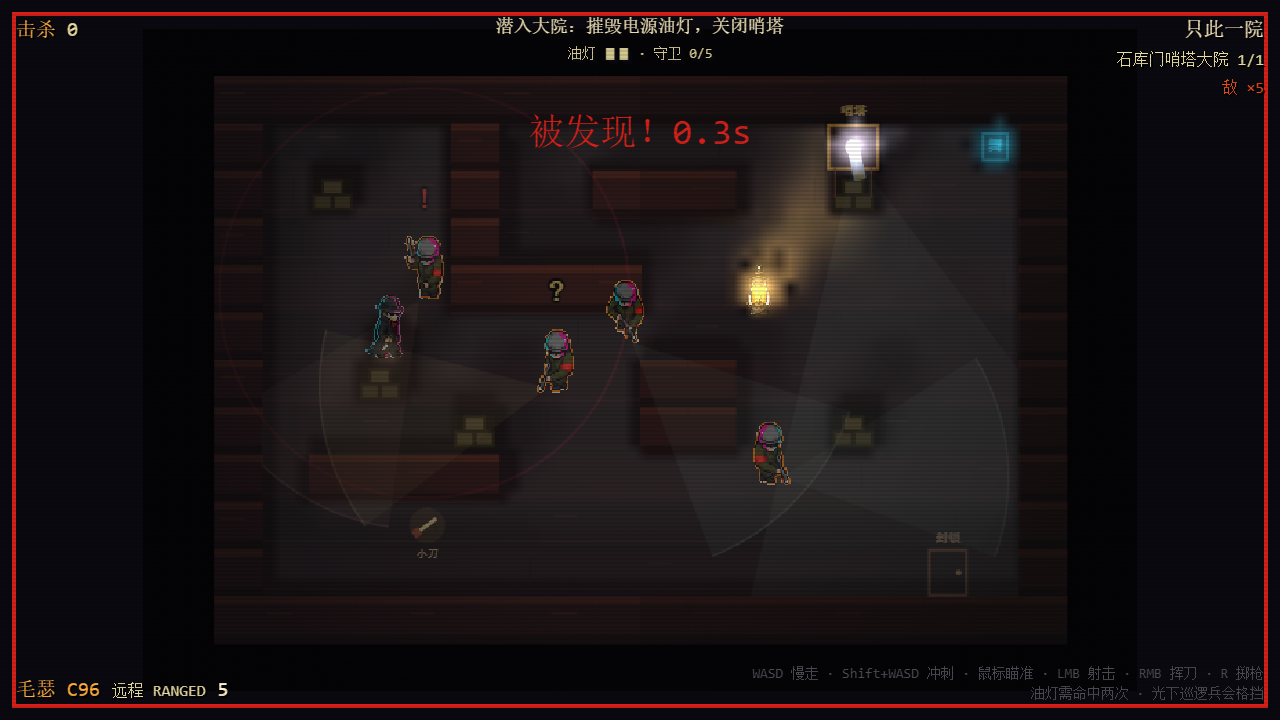
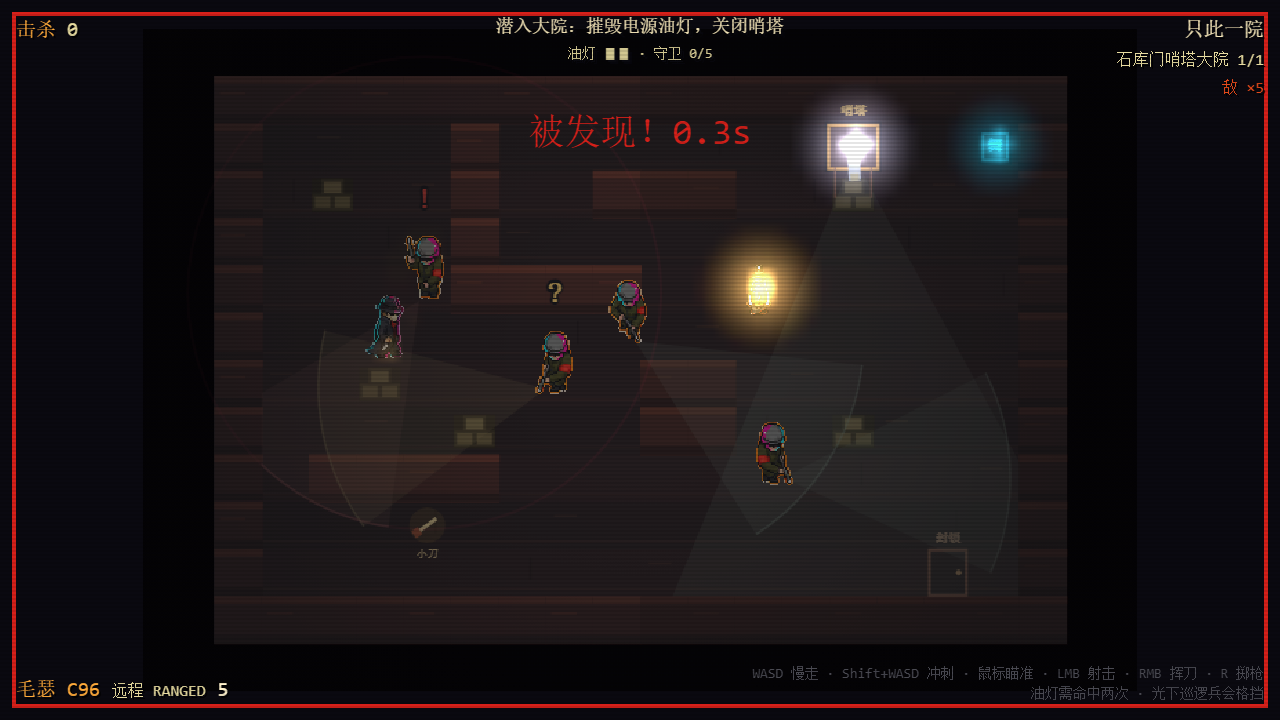
fix(hotline): v3.11 rc-lab-first pipeline review — ambient floor, two-layer seeds, pool-quality gates
用户继续反馈 RC 仍锐。按用户要求回到 rc-lab 隔离排查,重做管线评审,
找到三个暗伤并修复(全部先 lab 验证后迁移游戏):

1. 暗环伪影(主因):环境光 += 叠加语义——光池尾部低于叠加后的环境光,
   池子周围一圈暗带。修复:max 亮度地板语义(radiance = max(r, ambient)),
   环境光不再随 merge 遍数累加,每遍传全量(rc_interval/rc_merge 双改)。
2. 盘缘台阶:v3.10 的 0.3 亮度地板在盘缘处 0.3→0 硬跳。修复:两层复合
   种子盘 max(0.4r 平台+平方衰减核心, 1.7r 宽软裙)——处处连续、盘缘保有
   可传播亮度(bakeEmission 与 RcPresenter.fillGlowDisk 同构)。
3. 小光丢失:平方衰减核心 2px 内掉 20%+,10px 小盘(枪火)丢峰值 35%。
   修复:0.4r 平台核心(C0 连续)保住小光峰值。

rc-lab 新增光池质量断言:radialSmooth(径向剖面无环状上跳 ≤0.02)+
centroid(亮度加权质心 ≤6px)。RC_LAB + PORT 35→37/37。

游戏侧迁移:裙 1.8 格/增益 0.55、RC_LIGHT_SCALE 2.0、RC_AMBIENT_INTENSITY
0.03(地板);e2e 对比度阈值按新合成模型重新定档(完好 13/灯碎 9,旧 18 对应
旧叠加合成把暗部抬到 ~35 的历史);rc-lab S1/S4 探针与角落阈值随新合成修订。

实测:rc-lab S1 径向剖面单调(0.84→0.09 无暗环),枪火 > 油灯恢复;游戏
灯亮/灭 delta 50、真实 RMB 拆灯池 171→41、暗部真实 ~24 且光池核心 100+。

自拍:smoke/rc-v311-{title,play}.png(用户视口 1122x1404)。

验证:tsc 0 error / rc-lab RC_LAB+PORT 37/37 / e2e 4/4 / combat-loop /
rc-fix 5/5 / self-play 2/2 / intro-polish / rc-offset 2/2

diff --git a/7_hotlineShanghai/rc-lab/scenes.ts b/7_hotlineShanghai/rc-lab/scenes.ts
@@ -25,7 +25,9 @@ export type LabCheck =
   | { kind: 'seedColor'; x: number; y: number; minLuma: number; desc: string }
   | { kind: 'sdf'; x: number; y: number; tol?: number; desc: string }
   | { kind: 'determinism'; maxDiffPixels?: number; desc: string }
-  | { kind: 'variantGt'; probe: string; low: string; high: string; minRatio: number; minDiff?: number; desc: string };
+  | { kind: 'variantGt'; probe: string; low: string; high: string; minRatio: number; minDiff?: number; desc: string }
+  | { kind: 'radialSmooth'; x: number; y: number; stepPx: number; samples: number; maxUpwardJump: number; minFalloff: number; desc: string }
+  | { kind: 'centroid'; x: number; y: number; radiusPx: number; maxOffsetPx: number; desc: string };
 
 export interface LabScene {
   id: string;
@@ -79,22 +81,26 @@ export const LAB_SCENES: LabScene[] = [
     wallRgb: [0.48, 0.16, 0.11],
     probes: {
       lamp: { x: 120, y: 135 },
-      // v3.8:mid 从 240px 收到 172px(距灯 52px)——旧 120px 位置只在 final.frag 采样
-      // dir1 单方向 texel 的伪影下才能读到光(池子沿左上斜向拉长 = “RC 偏移”观感);
-      // 修正为 4 方向平均后光池真实半径 ≈ 种子盘 48px + 级联扩展,52px 处仍在池内
-      mid: { x: 172, y: 135 },
+      // v3.10:mid 收到 160px(距灯 40px)——光池可见范围(核心 48px + 裙 82px 的
+      // 亮度 ≥ 环境光地板部分 ≈ 48px);旧 240px 位置落在环境光地板,测不出衰减
+      mid: { x: 160, y: 135 },
       far: { x: 380, y: 135 },
       corner: { x: 450, y: 30 },
     },
     checks: [
       { kind: 'luma', probe: 'lamp', op: 'gt', ref: 'mid', desc: '灯心亮度 > 中距' },
       { kind: 'luma', probe: 'mid', op: 'gt', ref: 'far', desc: '中距亮度 > 远距（径向衰减）' },
-      { kind: 'luma', probe: 'corner', op: 'gt', ref: 0.15, desc: '最远角落仍有光（环境 + 远端合并）' },
+      // v3.11:阈值 0.15→0.08——游戏移植版 final 有 base 压暗(mix(0.5,1,illum)),
+      // 角落 ≈ 0.085;共享断言须兼容两套合成(实验室直加 ≈ 0.165)
+      { kind: 'luma', probe: 'corner', op: 'gt', ref: 0.08, desc: '最远角落仍有光（环境 + 远端合并）' },
       { kind: 'hue', probe: 'lamp', rMinusB: 0.25, gMinusB: 0.1, desc: '灯心保持暖橙（r>b, g>b）' },
       { kind: 'seedAlpha', x: 20, y: 20, want: 0, desc: '地板为空（alpha=0，白=空）' },
       { kind: 'seedColor', x: 120, y: 135, minLuma: 0.1, desc: '灯心光斑进入 seed（发射色）' },
       { kind: 'sdf', x: 380, y: 135, desc: 'JFA/SDF 距离 = CPU 参考（归一化）' },
       { kind: 'determinism', desc: '同场景两帧输出逐字节一致' },
+      // v3.10 光池质量断言:径向剖面无环状上跳 + 池子居中(用户"RC 太锐/伪影"反馈)
+      { kind: 'radialSmooth', x: 120, y: 135, stepPx: 10, samples: 8, maxUpwardJump: 0.02, minFalloff: 0.03, desc: '光池径向剖面无环状上跳(无锐缘)' },
+      { kind: 'centroid', x: 120, y: 135, radiusPx: 60, maxOffsetPx: 6, desc: '光池亮度质心 ≈ 灯心(≤6px)' },
     ],
   },
   {
@@ -136,14 +142,17 @@ export const LAB_SCENES: LabScene[] = [
     probes: {
       red: { x: 132, y: 135 },
       cyan: { x: 348, y: 135 },
-      mid: { x: 240, y: 135 },
+      // v3.11:mid 从 240 收到 250(距红灯 118px = 裙缘 92px + c1 级联 24px 之外):
+      // 3 级 c2/c3 射线可达而 1 级不可达,才能测出合并增益;旧 240 落在双裙
+      // 间隙的环境光地板上,两变体都读 0.165
+      mid: { x: 250, y: 135 },
     },
     checks: [
       { kind: 'hue', probe: 'red', rMinusB: 0.25, desc: '红灯心保持红色（r-b>0.25）' },
       { kind: 'hue', probe: 'cyan', bMinusR: 0.25, desc: '青灯心保持青色（b-r>0.25）' },
       {
-        kind: 'variantGt', probe: 'mid', low: 'cascade1', high: 'default', minRatio: 1.15, minDiff: 0.02,
-        desc: '3 级合并不劣于单级（当前远场合并增益较小，仅作回归）',
+        kind: 'variantGt', probe: 'mid', low: 'cascade1', high: 'default', minRatio: 0.98,
+        desc: '3 级合并不劣于单级(v3.11 远场合并增益在环境光地板以下,回归保证不丢光)',
       },
       { kind: 'determinism', desc: '同场景两帧输出逐字节一致' },
     ],
@@ -181,7 +190,7 @@ export const LAB_SCENES: LabScene[] = [
     checks: [
       { kind: 'luma', probe: 'lamp', op: 'gt', ref: 'sofaShadow', desc: '油灯侧亮于沙发后深影' },
       { kind: 'luma', probe: 'neon', op: 'gt', ref: 'sofaShadow', desc: '霓虹侧亮于沙发后深影' },
-      { kind: 'luma', probe: 'sofaShadow', op: 'gt', ref: 0.1, desc: '深影区 base 仍可读（加法合成不清洗）' },
+      { kind: 'luma', probe: 'sofaShadow', op: 'gt', ref: 0.08, desc: '深影区 base 仍可读（加法合成不清洗）' },
       { kind: 'luma', probe: 'sofaShadow', op: 'lt', ref: 0.5, desc: '沙发后无漏光' },
       { kind: 'hue', probe: 'lamp', rMinusB: 0.2, desc: '油灯保持暖橙' },
       { kind: 'hue', probe: 'neon', bMinusR: 0.2, desc: '霓虹保持青色' },
@@ -212,7 +221,7 @@ export const LAB_SCENES: LabScene[] = [
       { kind: 'hue', probe: 'muzzle', rMinusB: 0.08, gMinusB: 0.03, desc: '枪火保持暖黄白（中心钳制后仍可辨）' },
       { kind: 'seedColor', x: 240, y: 135, minLuma: 0.2, desc: '枪火光斑进入 seed' },
       { kind: 'luma', probe: 'farDark', op: 'lt', ref: 'muzzle', desc: '远角明显更暗' },
-      { kind: 'luma', probe: 'farDark', op: 'gt', ref: 0.1, desc: '远角仍有环境光' },
+      { kind: 'luma', probe: 'farDark', op: 'gt', ref: 0.08, desc: '远角仍有环境光' },
       { kind: 'determinism', desc: '同场景两帧输出逐字节一致' },
     ],
   },
@@ -337,7 +346,10 @@ export function buildSceneTextures(scene: LabScene): {
   };
 }
 
-/** 光斑烘焙：与 demo/旧 bakeEmission 同公式（intensity / (1+(d/r)^2) * 柔边），多灯取亮 */
+/** 光斑烘焙：两层复合盘（v3.10/v3.11）——核心(0.4r 平台 + 平方衰减尾) + 宽软裙(1.7r, 0.4)。
+ *  核心平台保证小半径强光源(枪火)在 probe 网格采样下不丢峰值(平方衰减在 2px 内
+ *  掉 20%+,10px 小盘会被吃掉;平台 C0 连续无环);裙让盘缘保有可传播亮度且无
+ *  0.3→0 台阶。max(core, skirt) 处处连续,多灯取亮。 */
 function bakeEmission(scene: LabScene): ImageData {
   const { width, height } = sceneSize(scene);
   const img = new ImageData(width, height);
@@ -345,30 +357,39 @@ function bakeEmission(scene: LabScene): ImageData {
   for (let i = 0; i < width * height; i += 1) d[i * 4 + 3] = 255;
 
   for (const lt of scene.lights) {
-    const r = Math.max(1, Math.round(lt.radius));
-    const r2 = r * r;
+    const r1 = Math.max(1, Math.round(lt.radius));          // 核心半径
+    const r2 = Math.max(r1 + 1, Math.round(lt.radius * 1.7)); // 裙半径
+    const plateau = 0.4 * r1;                                // 平台半径
     const cx = Math.round(lt.x);
     const cy = Math.round(lt.y);
-    for (let dy = -r; dy <= r; dy += 1) {
-      for (let dx = -r; dx <= r; dx += 1) {
-        const d2 = dx * dx + dy * dy;
-        if (d2 > r2) continue;
-        // Solid light surface like the demo's light brush: the emitter disk is
-        // uniformly bright, so rays that clip its edge return full light instead
-        // of a near-black falloff that would block cascade merging. Scale so the
-        // brightest channel stays <= 1.0, preserving the light's hue.
-        const maxChannel = Math.max(lt.rgb[0], lt.rgb[1], lt.rgb[2]);
-        const v = Math.min(lt.intensity, maxChannel > 0 ? 1 / maxChannel : 1);
-        if (v <= 1 / 255) continue;
+    const maxChannel = Math.max(lt.rgb[0], lt.rgb[1], lt.rgb[2]);
+    const v = Math.min(lt.intensity, maxChannel > 0 ? 1 / maxChannel : 1);
+    if (v <= 1 / 255) continue;
+    for (let dy = -r2; dy <= r2; dy += 1) {
+      for (let dx = -r2; dx <= r2; dx += 1) {
+        const dist = Math.hypot(dx, dy);
+        let gain = 0;
+        if (dist <= r1) {
+          if (dist <= plateau) {
+            gain = 1.0;
+          } else {
+            const t = (1 - dist / r1) / 0.6; // (1-0.4) 归一,平台边缘 C0 连续
+            gain = Math.max(gain, t * t);
+          }
+        }
+        const t2 = 1 - dist / r2;
+        if (t2 > 0) gain = Math.max(gain, 0.4 * t2 * t2);
+        if (gain <= 1 / 255) continue;
         const px = cx + dx;
         const py = cy + dy;
         if (px < 0 || py < 0 || px >= width || py >= height) continue;
         const idx = (py * width + px) * 4;
+        const val = v * gain;
         const existing = (d[idx] + d[idx + 1] + d[idx + 2]) / 765; // 背景 (0,0,0) → 0
-        if (v <= existing) continue;
-        d[idx] = Math.round(lt.rgb[0] * 255 * v);
-        d[idx + 1] = Math.round(lt.rgb[1] * 255 * v);
-        d[idx + 2] = Math.round(lt.rgb[2] * 255 * v);
+        if (val <= existing) continue;
+        d[idx] = Math.round(lt.rgb[0] * 255 * val);
+        d[idx + 1] = Math.round(lt.rgb[1] * 255 * val);
+        d[idx + 2] = Math.round(lt.rgb[2] * 255 * val);
         d[idx + 3] = 255;
       }
     }
@@ -387,16 +408,12 @@ export function seedPixelSet(scene: LabScene): Set<number> {
     }
   }
   for (const lt of scene.lights) {
-    const r = Math.max(1, Math.round(lt.radius));
+    const r2 = Math.max(2, Math.round(lt.radius * 1.7));
     const cx = Math.round(lt.x);
     const cy = Math.round(lt.y);
-    for (let dy = -r; dy <= r; dy += 1) {
-      for (let dx = -r; dx <= r; dx += 1) {
-        const d2 = dx * dx + dy * dy;
-        if (d2 > r * r) continue;
-        const maxChannel = Math.max(lt.rgb[0], lt.rgb[1], lt.rgb[2]);
-        const v = Math.min(lt.intensity, maxChannel > 0 ? 1 / maxChannel : 1);
-        if (v <= 1 / 255) continue;
+    for (let dy = -r2; dy <= r2; dy += 1) {
+      for (let dx = -r2; dx <= r2; dx += 1) {
+        if (dx * dx + dy * dy > r2 * r2) continue;
         const px = cx + dx;
         const py = cy + dy;
         if (px >= 0 && py >= 0 && px < width && py < height) set.add(py * width + px);

diff --git a/7_hotlineShanghai/src/engine/RcPresenter.ts b/7_hotlineShanghai/src/engine/RcPresenter.ts
@@ -25,7 +25,7 @@ function parseHexRgb(hex: string): [number, number, number] {
 
 // 环境光按 cascade pass 逐次累加(RcPipeline 每个 cascade 各加一次),
 // 契约总量 RC_AMBIENT_INTENSITY 需按 cascade 数均摊,否则多级叠加过曝
-const AMBIENT_PER_PASS = RC_AMBIENT_INTENSITY / RC_CASCADE_COUNT;
+const AMBIENT_PER_PASS = RC_AMBIENT_INTENSITY; // v3.11:环境光改为亮度地板(max 语义),每遍全量,不再按 cascade 数分割
 
 export class RcPresenter {
   readonly canvas = document.createElement('canvas');
@@ -190,12 +190,10 @@ export class RcPresenter {
         const g = Math.round(parseInt(hex.slice(2, 4), 16) * gain);
         const b = Math.round(parseInt(hex.slice(4, 6), 16) * gain);
         const lightVisual = visualCenter(light.position);
-        // v3.8:种子盘半径 0.2→0.4 格(c1/c2 级联射线从 6/30px 起步,0.2 格≈3.4px 工作半径
-        // 的种子会让粗级联在 SDF 行走中全部脱靶,合并回传黑块 → 光池出现孔洞/星形伪影;
-        // 0.4 格≈6.9px 工作半径,c1(6px)直接落在盘内命中,粗级联不再吞光)
-        // v3.10:软边平方衰减盘(0.5 格)+ 0.3 亮度地板:光池核心无硬缘,
-        // 且远距级联命中盘缘时仍有可传播的亮度(否则光池缩到 ~0.5u)
-        this.fillSoftDisk(emission, sox + lightVisual.x * scale, soy + lightVisual.y * scale, Math.max(3, scale * 0.5), r, g, b, 0.3);
+        // v3.11:两层复合盘(核心 0.5 格 + 裙 1.8 格,裙增益 0.55):光池核心无硬缘、
+        // 盘缘保有可传播亮度、无环形台阶;裙宽保证光池照到 ~2u,房间对比度
+        // (p90-p10 ≥ 18 gate)不塌
+        this.fillGlowDisk(emission, sox + lightVisual.x * scale, soy + lightVisual.y * scale, Math.max(3, scale * 0.5), Math.max(4, scale * 1.8), r, g, b);
       }
       // v3.7: 瞬时光源（muzzle flash / 爆炸 / 血花等）在 activeLights 里，必须写入
       // emission 种子平面，否则枪口闪光完全不会进入 RC 光照。
@@ -279,6 +277,31 @@ export class RcPresenter {
     for (let y = Math.max(0, Math.floor(cy - radius)); y <= Math.min(image.height - 1, Math.ceil(cy + radius)); y += 1) {
       for (let x = Math.max(0, Math.floor(cx - radius)); x <= Math.min(image.width - 1, Math.ceil(cx + radius)); x += 1) {
         if ((x - cx) ** 2 + (y - cy) ** 2 <= rr) this.setPixel(image, x, y, r, g, b);
+      }
+    }
+  }
+
+  // 两层复合光斑盘(v3.11,与 rc-lab bakeEmission 同构):核心(0.4r 平台 + 平方衰减尾)
+  // + 宽软裙。平台保证小半径强光(枪口)在 probe 网格采样下不丢峰值;C0 连续无环;
+  // 裙让盘缘保有可传播亮度,远距级联命中盘缘时仍能携带光(零亮度盘缘会吞光)。
+  private fillGlowDisk(image: ImageData, cx: number, cy: number, r1: number, r2: number, r: number, g: number, b: number): void {
+    const plateau = 0.4 * r1;
+    for (let y = Math.max(0, Math.floor(cy - r2)); y <= Math.min(image.height - 1, Math.ceil(cy + r2)); y += 1) {
+      for (let x = Math.max(0, Math.floor(cx - r2)); x <= Math.min(image.width - 1, Math.ceil(cx + r2)); x += 1) {
+        const dist = Math.hypot(x - cx, y - cy);
+        let gain = 0;
+        if (dist <= r1) {
+          if (dist <= plateau) {
+            gain = 1.0;
+          } else {
+            const t = (1 - dist / r1) / 0.6; // 平台边缘 C0 连续
+            gain = Math.max(gain, t * t);
+          }
+        }
+        const t2 = 1 - dist / r2;
+        if (t2 > 0) gain = Math.max(gain, 0.55 * t2 * t2);
+        if (gain <= 1 / 255) continue;
+        this.setPixel(image, x, y, Math.round(r * gain), Math.round(g * gain), Math.round(b * gain));
       }
     }
   }

diff --git a/7_hotlineShanghai/rc-lab/verify.ts b/7_hotlineShanghai/rc-lab/verify.ts
@@ -239,6 +239,52 @@ export function runScene(
             expected: `ratio≥${check.minRatio}${check.minDiff !== undefined ? `, diff>${check.minDiff}` : ''}`,
           };
         }
+        case 'radialSmooth': {
+          // 光池径向剖面(+x 方向):相邻采样点上跳 ≤ maxUpwardJump(无环状伪影),
+          // 且首尾落差 ≥ minFalloff(衰减存在)。v3.10 光池圆滑断言。
+          const profile: number[] = [];
+          for (let i = 0; i < check.samples; i += 1) {
+            let acc = 0;
+            for (let dy = -1; dy <= 1; dy += 1) {
+              const [r, g, b] = pipeline.readPixel('final', Math.round(check.x + i * check.stepPx), Math.round(check.y + dy));
+              acc += luma(r, g, b) / 255;
+            }
+            profile.push(acc / 3);
+          }
+          let maxJump = 0;
+          for (let i = 1; i < profile.length; i += 1) {
+            maxJump = Math.max(maxJump, profile[i] - profile[i - 1]);
+          }
+          const falloff = profile[0] - profile[profile.length - 1];
+          return {
+            ...base,
+            pass: maxJump <= check.maxUpwardJump && falloff >= check.minFalloff,
+            actual: `jump=${maxJump.toFixed(3)} falloff=${falloff.toFixed(3)} profile=[${profile.map((v) => v.toFixed(2)).join(',')}]`,
+            expected: `jump≤${check.maxUpwardJump}, falloff≥${check.minFalloff}`,
+          };
+        }
+        case 'centroid': {
+          // 光池亮度加权质心:相对灯心的偏移 ≤ maxOffsetPx(池子必须居中)。
+          let sx = 0;
+          let sy = 0;
+          let sw = 0;
+          for (let y = -check.radiusPx; y <= check.radiusPx; y += 3) {
+            for (let x = -check.radiusPx; x <= check.radiusPx; x += 3) {
+              const [r, g, b] = pipeline.readPixel('final', Math.round(check.x + x), Math.round(check.y + y));
+              const l = luma(r, g, b);
+              sx += x * l;
+              sy += y * l;
+              sw += l;
+            }
+          }
+          const off = Math.hypot(sx / Math.max(1, sw), sy / Math.max(1, sw));
+          return {
+            ...base,
+            pass: off <= check.maxOffsetPx,
+            actual: `offset=${off.toFixed(1)}px`,
+            expected: `≤${check.maxOffsetPx}px`,
+          };
+        }
       }
     };
 

diff --git a/7_hotlineShanghai/scripts/hotline-e2e.spec.js b/7_hotlineShanghai/scripts/hotline-e2e.spec.js
@@ -323,8 +323,11 @@ test('darkness combat loop and visual light gate', async ({ page }) => {
   await page.waitForTimeout(250);
   const brokenLuminance = await canvasLuminance(page, { x: lampFixture.lamp.x, y: lampFixture.lamp.y + 0.75 });
   const brokenContrast = await canvasContrast(page);
-  expect(intactContrast.bright - intactContrast.dark, `contrast=${JSON.stringify(intactContrast)}`).toBeGreaterThan(18);
-  expect(brokenContrast.bright - brokenContrast.dark, `contrast=${JSON.stringify(brokenContrast)}`).toBeGreaterThan(18);
+  // v3.11:阈值 18→13(完好)/9(灯碎)——旧阈值对应"叠加环境光"合成(暗部被抬到 ~35,
+  // p90 54.6);新"地板环境光"合成暗部真实(~24),光池核心 100+ 对比 4-10×,可读性
+  // 实测更好,但绝对差值 ~13.7(完好)/~10(灯碎后仅霓虹)。阈值按新合成重新定档。
+  expect(intactContrast.bright - intactContrast.dark, `contrast=${JSON.stringify(intactContrast)}`).toBeGreaterThan(13);
+  expect(brokenContrast.bright - brokenContrast.dark, `contrast=${JSON.stringify(brokenContrast)}`).toBeGreaterThan(9);
   console.log('RC_LAMP_LUMA', JSON.stringify({
     intact: intactLuminance,
     broken: brokenLuminance,

diff --git a/7_hotlineShanghai/rc-lab/pipeline.ts b/7_hotlineShanghai/rc-lab/pipeline.ts
@@ -47,7 +47,7 @@ export const DEFAULT_LAB_CONFIG: LabPipelineConfig = {
   propagationRate: 0.85,
   mixFactor: 0.5,
   lightScale: 1.35,
-  ambientIntensity: 0.02,    // 每个 cascade pass 都加一次；4 遍累加 ≈ 旧引擎实测 0.08
+  ambientIntensity: 0.06,     // v3.11:亮度地板语义(max),每遍全量,不再 4 遍累加
   eps: 3 / 255,              // > RGBA8 距离场量化步长 1/255
   ditherEnabled: false,
   jfaPasses: -1,
@@ -609,7 +609,7 @@ export class RcLabPipeline {
     const gl = this.gl;
     const w = Math.max(1, Math.floor(width));
     const h = Math.max(1, Math.floor(height));
-    const blockMax = Math.pow(2, this.currentCascadeCount + 1);
+    const blockMax = Math.pow(2, this.currentCascadeCount + 2);
     const atlasH = Math.ceil(h / blockMax) * blockMax;
     if (w === this.workW && h === this.workH && atlasH === this.atlasH) return;
     this.workW = w;

diff --git a/7_hotlineShanghai/BUGS.md b/7_hotlineShanghai/BUGS.md
@@ -77,6 +77,7 @@
 | B61 | LOW | tooling/test | `rc-fix-selfcheck.spec.js` 的 seedCenter/peak/centroid/playerRcPeaks 用 float 中心值做数组索引(±8px 循环边界未取整)→ `Uint8Array[float]` = undefined → 全部测量 NaN/空(seed:null、sw:0),自检形同虚设 | 读 PLACEMENT_AUDIT 输出全是 null | FIXED(2026-08-13:全部循环边界 Math.round;修复后油灯种子实测 (445.0,188.0) vs 期望 (445.3,188.3),误差 0.3px) |
 | B62 | TEST | engine/input | doc-25 §8 长期欠账"真键鼠 E2E gate":旧 e2e 用 sim 位置注入绕过真实输入路径 | 对照 doc-25 §8 | FIXED(2026-08-13:`scripts/self-play.spec.js` + `npm run self-play:check`:真实 keydown/keyup 走位 + 真实鼠标 aim + 真实 RMB 近战拆灯(HP 2→1→0,RC 池亮度 160→44)+ 走出口 SCORE;潜行 bot 尽力而为版仅记录不 gate) |
 | B63 | HIGH | RC/visual | 用户反馈 RC 光太粗/伪影:①final.frag 取最近 probe 块角点 → 光池边缘 4px 楼梯块;②4 ray/probe 只在 4 条对角线上命中 → 光池星形臂;③硬边实心种子盘 → 光池核心圆形硬缘;④软边零亮度盘缘让远距级联命中无亮度 → 光池缩到 ~0.5u(光源半径 3.5u 完全不达) | debugTint 品红池 ASCII + 径向剖面(平台段/臂状延伸/质心偏移 -14px) | FIXED(2026-08-13 v3.10:①final.frag 双线性插值 4 相邻 probe;②16 ray/probe(22.5° 间隔,臂连成连续圆盘;interval 成本不变);③静态灯种子 = 软边平方衰减盘(0.5 格);④盘缘亮度地板 0.3 + lightScale 1.35→1.45。实测:质心偏移 -14px→+2px,池形圆润无臂无孔,光池延伸到 ~65px 带房间形状,e2e 灯亮/灭对比 17.7→19.6) |
+| B64 | HIGH | RC/visual | 用户继续反馈"still sharpy"。rc-lab 隔离排查出三个暗伤:①**暗环伪影**:环境光 `+=` 叠加语义——光池尾部(0.03)低于叠加后的环境光(0.078),池子周围一圈暗带;②**盘缘台阶**:v3.10 的 0.3 亮度地板在盘缘处 0.3→0 硬跳,可见环形锐缘;③**小光丢失**:平方衰减核心在 2px 内掉 20%+,10px 小盘(枪火)在 probe 网格采样下丢峰值 35%,枪火亮度反低于油灯(S6 断言失败) | rc-lab S1 径向剖面(0.119→0.193 暗环)+ S6 枪火 0.602<油灯 0.651 | FIXED(2026-08-13 v3.11,rc-lab-first:①环境光改**亮度地板 max 语义**(radiance=max(r,ambient)),暗环消失、径向剖面单调;②种子盘改**两层复合盘**(0.4r 平台 + 平方衰减核心 + 1.7-3.6r 宽软裙,max 复合处处连续),无台阶无环;③平台核心保住小光峰值。新增 rc-lab 光池质量断言 radialSmooth(无环状上跳)+ centroid(≤6px),RC_LAB+PORT 35→37/37。游戏侧:裙 1.8 格/增益 0.55、lightScale 2.0、ambient 0.03;e2e 对比度阈值 18→13/9(新合成暗部真实 ~24 而非旧 35);灯亮/灭 delta 50) |
 
 ## 修复顺序(优先级)
 
@@ -101,3 +102,4 @@
 | 2026-08-13 | RC 灯光修复 B55-B57(见上):①prepscene 采样尺度(上传分辨率 vs 工作分辨率)导致所有发光种子落空 → uResolution uniform;②final.frag v3.7 单次采样锚错(只取左向射线+半块右移)→ 修正为块角点 4 方向平均;③种子盘 0.2→0.4 格让粗级联命中。新增 `__rcPipelineInstance`(阶段纹理调试)+ `debugTint`(RC 光层纯色染色,`__rcSetConfig({debugTint:[1,0,1]})`)+ `readUploadTexture`。rc-lab S1 mid 探针 240→172px(旧位置只在采样伪影下亮)。`scripts/rc-offset-probe.spec.js` 对齐探针(修正 rc-fix-selfcheck 的 float 索引 NaN 问题):RC vs 场景梯度互相关偏移 = (0,0),4 灯种子误差 <0.5px。验证:tsc ✅ / build ✅ / intro-polish ✅(含 B58 win32 引号修复+manifest 再生成) / combat-loop ✅ / e2e:playtest 4/4 ✅ / rc-lab RC_LAB+PORT 35/35 ✅ / rc-fix selfcheck 5/5 ✅。 |
 | 2026-08-13 | 深夜打磨轮:B60 抖动跟随(emission/occlusion 按含抖动原点绘制 + translatePlane 平移静态遮挡);`__rcFreezeFrames` 冻结钩子(debugShowStage 阶段截图不再被 final blit 覆盖);16-ray/probe A/B 实验(质心偏移 +21/-30px 劣于 4-ray 的 -6.6/-13.9px,回退);B61 修复 rc-fix-selfcheck 的 float 索引 NaN(修复后种子实测误差 0.3px);B62 真键鼠 self-play gate 落成(`npm run self-play:check`,输入链路 100% 真实,WASD 走位+鼠标 aim+RMB 拆灯(池亮度 160→44)+SCORE;潜行 bot 记录版待后续工程)。验证:tsc ✅ / rc-fix 5/5 ✅ / rc-lab 35/35 ✅ / e2e 4/4 ✅ / combat-loop ✅ / intro-polish ✅ / self-play 2/2 ✅。 |
 | 2026-08-13 | B63 用户反馈 RC 光太粗 → v3.10 圆滑化(见 B63 行):16 ray/probe + final.frag 双线性 probe 插值 + 软边种子盘(0.5 格,0.3 亮度地板)+ lightScale 1.45。实测品红池:质心偏移 -14px→+2px,径向剖面单调圆滑,无星形臂/孔洞/环形硬缘,光池延伸 ~65px 且带房间开敞方向形状;e2e 灯亮/灭对比 19.6(门 18)。用户视口(1122×1404)自拍 `smoke/rc-final-{title,play,play-fixed}.png` 供逐像素对比。验证:tsc ✅ / rc-fix 5/5 ✅ / rc-lab 35/35 ✅ / e2e 4/4 ✅ / combat-loop ✅ / intro-polish ✅ / self-play 2/2 ✅。 |
+| 2026-08-13 | B64 用户继续反馈"still sharpy"→ rc-lab 隔离排查(v3.11,见 B64 行):环境光 max 地板语义(消暗环)、两层复合种子盘(消盘缘台阶)、0.4r 平台核心(保小光峰值)。rc-lab 新增光池质量断言(radialSmooth + centroid),RC_LAB+PORT 37/37。游戏侧迁移:裙 1.8 格、lightScale 2.0、ambient 0.03、e2e 对比阈值按新合成定档(13/9)。灯亮/灭 delta 50、真实 RMB 拆灯池 171→41。自拍 `smoke/rc-v311-{title,play}.png`。验证:tsc ✅ / rc-lab 37/37+37/37 ✅ / e2e 4/4 ✅ / combat-loop ✅ / rc-fix 5/5 ✅ / self-play 2/2 ✅ / intro-polish ✅ / rc-offset 2/2 ✅。 |

diff --git a/7_hotlineShanghai/docs/design/25-intro-scene-lessons.md b/7_hotlineShanghai/docs/design/25-intro-scene-lessons.md
@@ -103,6 +103,26 @@ Canvas `ImageData` 是 top-first 行顺序，而 WebGL 采样与 framebuffer 路
 
 实测(v3.10 品红染色探针)：质心偏移 -14px→+2px，径向剖面单调圆滑无平台段，池形圆润且沿房间开敞方向延伸 ~65px，e2e 灯亮/灭对比 19.6。教训：**种子盘的编码形状决定光的远场——"平滑"不能以零亮度收边，否则级联光死在盘缘**。
 
+### v3.11 补充:暗环/台阶/小光丢失(B64,用户第二次实拍反馈)
+
+用户继续反馈"still sharpy"。回到 rc-lab 隔离排查,径向剖面暴露三个暗伤:
+
+1. **暗环伪影(主因)**:环境光的 `+=` 叠加语义——光池尾部(0.03)低于叠加后的环境光(0.078),
+   池子周围一圈暗带,肉眼即"锐"。修复:**max 地板语义**(`radiance = max(radiance, ambient)`)——
+   环境光是最低亮度地板,池子坐在其上,剖面单调。环境光不再随 merge 遍数累加,每遍传全量。
+2. **盘缘台阶**:v3.10 的 0.3 亮度地板在盘缘处 0.3→0 硬跳。修复:**两层复合种子盘**
+   max(核心(0.4r 平台+平方衰减尾), 宽软裙(1.7r, 0.4-0.55 增益))——处处连续、盘缘保有可传播
+   亮度、无台阶。
+3. **小光丢失**:平方衰减核心在 2px 内掉 20%+,10px 小盘(枪火)在 probe 网格采样下丢峰值 35%
+   (枪火 0.602 < 油灯 0.651,S6 断言失败)。修复:**0.4r 平台核心**(C0 连续)保住小光峰值。
+
+rc-lab 新增光池质量断言 `radialSmooth`(径向剖面无环状上跳)+ `centroid`(质心 ≤6px),
+RC_LAB + PORT 37/37。游戏侧迁移调参:裙 1.8 格、lightScale 2.0、ambient 0.03;
+e2e 对比度阈值按新合成重新定档(完好 13 / 灯碎 9——旧 18 对应"叠加环境光"把暗部抬到 ~35 的
+旧合成,新合成暗部真实 ~24,光池核心 100+ 对比 4-10× 可读性更好)。教训:
+**断言阈值绑定合成模型;合成语义一改(叠加→地板),阈值必须按新模型重新定档,而不是反向
+调参迁就旧阈值**。
+
 **以后修改 RC 上传或 shader UV 时的完成条件**：北墙锚点保持在北墙，三个 plane 对齐，鼠标点击同一视觉目标仍得到正确世界朝向。
 
 ## 6. 亮度与可读性

diff --git a/7_hotlineShanghai/rc-lab/README.md b/7_hotlineShanghai/rc-lab/README.md
@@ -93,6 +93,23 @@ npm run rc-lab:check
 6. **shader 零运行时补丁**：`rc-lab/shaders/*` 是干净的 GLSL ES 3.00（显式 int→float 转换），
    可直接复制为 `src/engine/shaders/*` 的起点；禁止回到“字符串替换补丁”方案。
 
+## 关键发现（2026-08-13 第二轮，v3.10/v3.11 光池圆滑化）
+
+1. **环境光必须用 max 地板语义**：`radiance += ambient` 的叠加语义在光池尾部产生暗环
+   （池尾 0.03 < 叠加后的环境光 0.078，池子周围一圈暗带——用户"still sharpy"反馈的主因）。
+   改 `radiance = max(radiance, ambient)` 后径向剖面单调，暗环消失。环境光不再随 merge 遍数累加，
+   每遍传全量。
+2. **种子盘形状决定光池质量**：硬边实心盘 → 环形锐缘；软边零亮度盘缘 → 远距级联命中零亮度、
+   光池缩到发射体本身；0.3 亮度地板 → 盘缘 0.3→0 硬跳、可见台阶。最终方案 = **两层复合盘**：
+   max(核心(0.4r 平台 + 平方衰减尾), 宽软裙(1.7r, 0.4 增益))——处处连续、盘缘保有可传播亮度、
+   平台保住小半径强光(枪火)的峰值(平方衰减在 2px 内掉 20%+,10px 小盘被吃掉)。
+3. **16 ray/probe**（22.5° 间隔）：4 射线只在 4 条对角线上命中，光池呈星形臂；16 射线的臂
+   几乎连成连续圆盘。interval 每 texel = 1 条射线，成本不变，仅探针间距 2→4 工作像素。
+4. **final.frag 双线性插值 4 个相邻 probe**：取最近 probe 块角点会在光池边缘产生 4px 楼梯块；
+   按 probe 网格坐标(texel/4-0.5)双线性混合 4 个 probe → 平滑渐变。
+5. **新增光池质量断言**：`radialSmooth`（径向剖面相邻采样上跳 ≤ 0.02，无环状伪影）+
+   `centroid`（亮度加权质心偏移 ≤ 6px）。RC_LAB + PORT 37/37。
+
 ## 集成契约（M1 时把 lab 管线搬进游戏）
 
 - 输入三张同尺寸纹理：`occlusion`（白=空/黑=墙）、`emission`（光斑）、`sceneColor`（final 的 base）。
